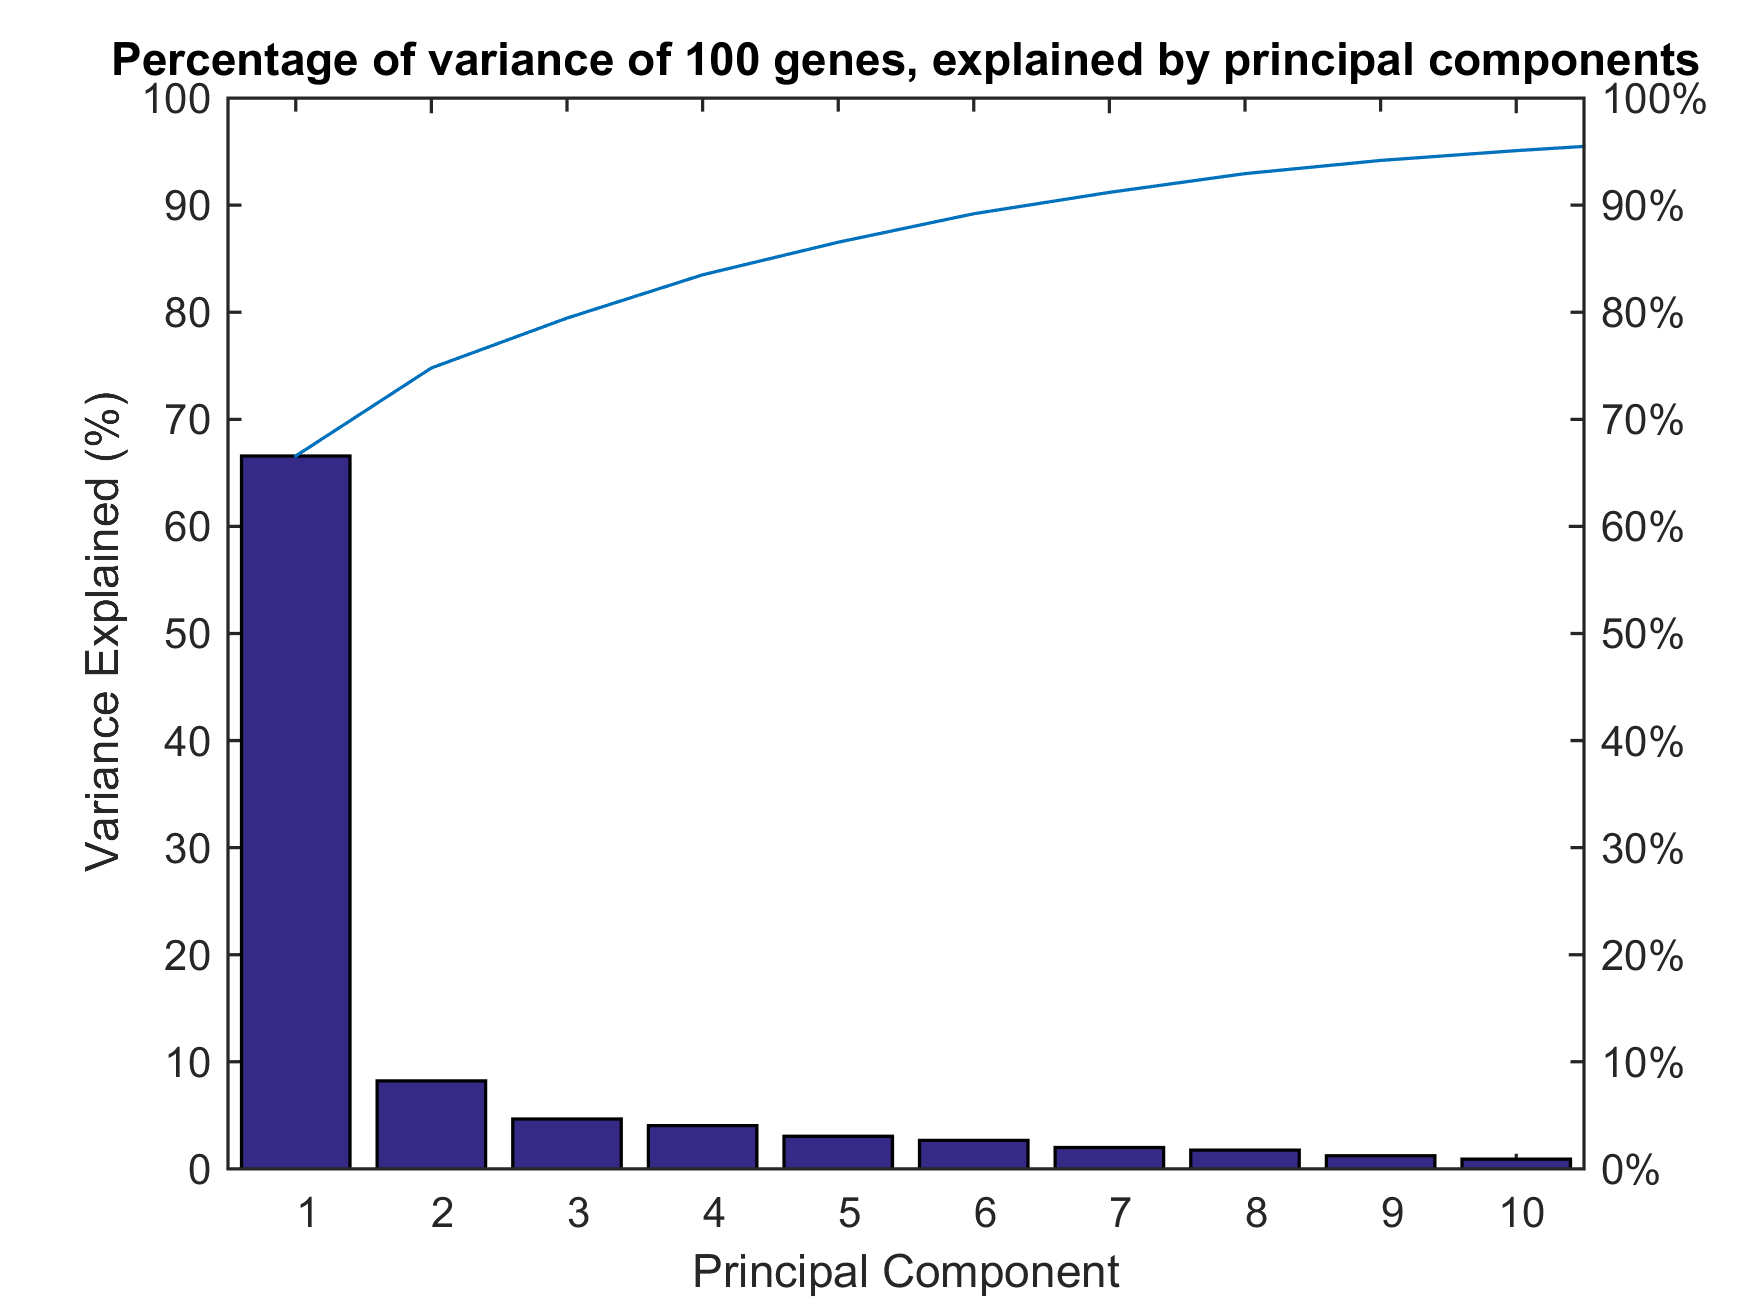
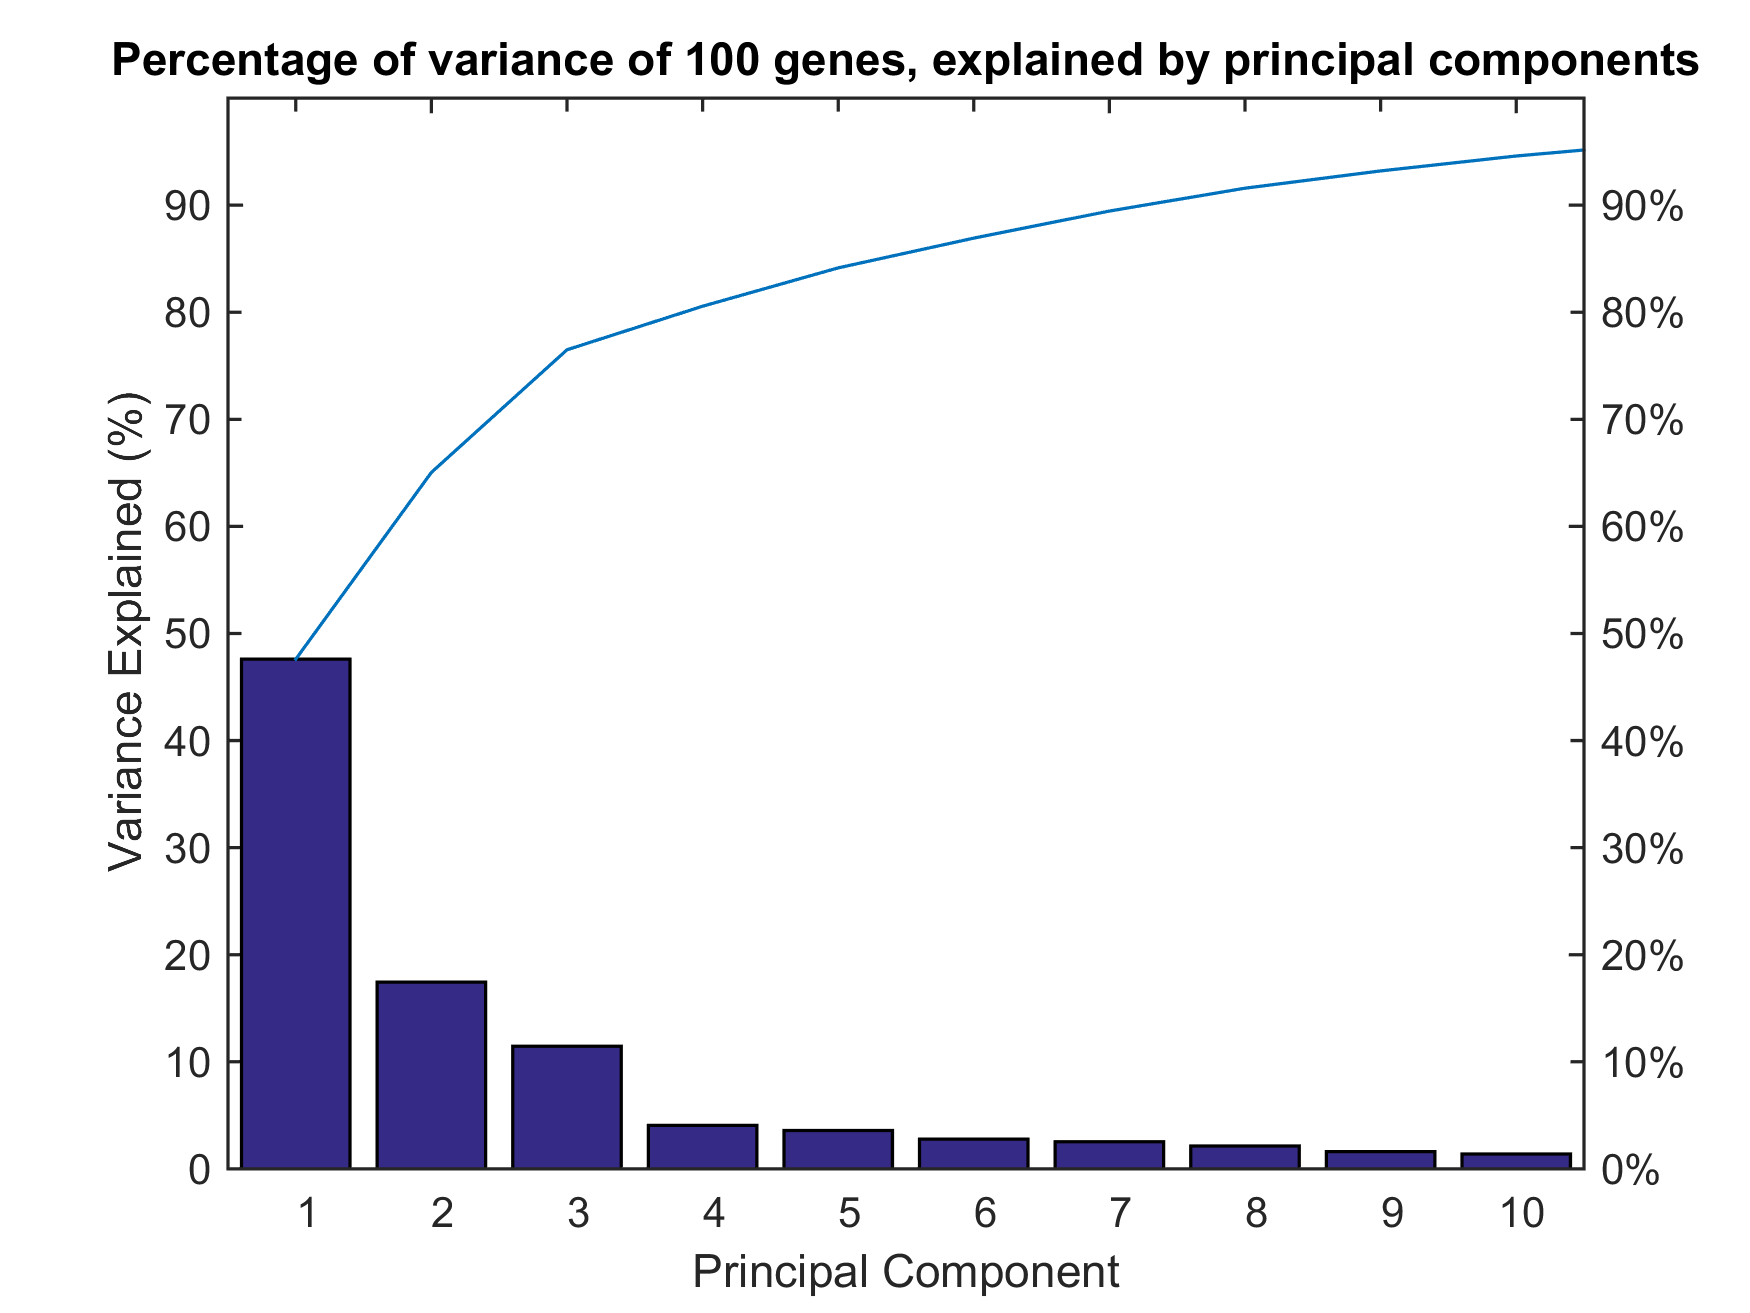
And again.

diff --git a/IndependantPCA.m b/IndependantPCA.m
@@ -3,7 +3,10 @@ function [indcoeff,indcomponents] = IndependantPCA(varargin)
 
 Data = varargin{1};
 PCAindices = varargin{2};
-PCAnames = varargin{3}; 
+PCAnames = varargin{3};
+if nargin>3;
+    N = varargin{4}; %For the figures.
+end
 
 %% Step 1 : Cleaning and gathering.
 
@@ -28,15 +31,15 @@ Data(~PCAindices,:) = [];
 if sum(strcmp(varargin(:), 'Plot'))==1;
     figure()
     biplot(coeff(:,1:2),'scores',components(:,1:2),'varlabels', PCAnames);
-    title(['First two principal components of the independant dataset, reduced to ', num2str(2*N) ,' genes ']))
+    title(['First two principal components of the independant dataset, reduced to ', num2str(2*N) ,' genes '])
     xlabel('1st Principal Component')
     ylabel('2nd Principal Component')
     
-    %figure()
-    %pareto(explained)
-    %title(['Percentage of variance of ', num2str(2*N), ' genes, explained by principal components'])
-    %xlabel('Principal Component')
-    %ylabel('Variance Explained (%)') 
+    figure()
+    pareto(explained)
+    title(['Percentage of variance of ', num2str(2*N), ' genes, explained by principal components'])
+    xlabel('Principal Component')
+    ylabel('Variance Explained (%)') 
 end
 
 %% Renaming the returns

diff --git a/ProjectPCA3.m b/ProjectPCA3.m
@@ -85,11 +85,11 @@ if sum(strcmp(varargin(:), 'Plot'))==1;
     %biplot(coeff(:,1:3),'scores',components(:,1:3),'varlabels', PCAnames);
     %3D
     
-    figure()
-    pareto(explained)
-    title(['Percentage of variance of ', num2str(2*N), ' genes, explained by principal components'])
-    xlabel('Principal Component')
-    ylabel('Variance Explained (%)')
+    %figure()
+    %pareto(explained)
+    %title(['Percentage of variance of ', num2str(2*N), ' genes, explained by principal components'])
+    %xlabel('Principal Component')
+    %ylabel('Variance Explained (%)')
     
     %biplot(coeff(:,1:2),'Scores',components(:,1:2),'VarLabels', {'X1' 'X2' 'X3' 'X4'})
     
@@ -103,4 +103,4 @@ end
 
 %% Second iteration of PCA for the independant dataset
 
-[indcoeff, indcomponents] = IndependantPCA(independantData, PCAindices, PCAnames, 'Plot');
+[indcoeff, indcomponents] = IndependantPCA(independantData, PCAindices, PCAnames, N, 'Plot');
